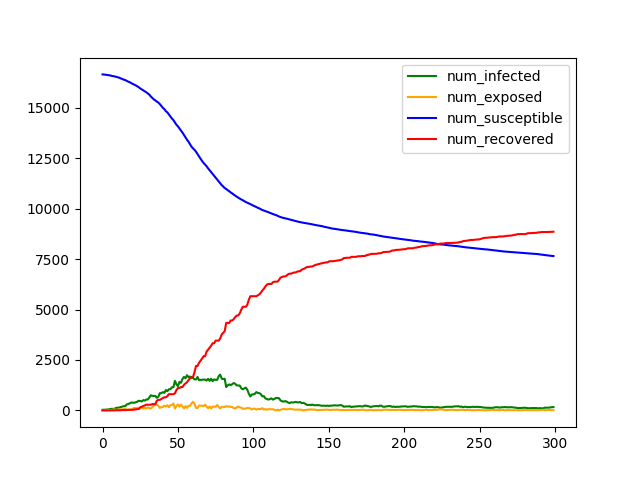
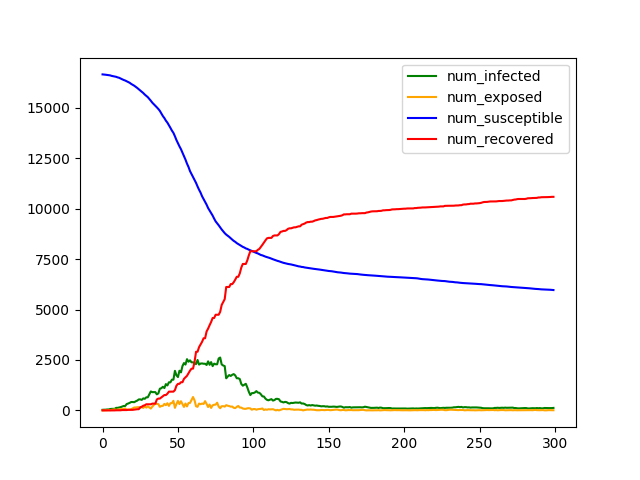
update with inter-group interaction matrix

diff --git a/simopt/models/covid_shane.py b/simopt/models/covid_shane.py
@@ -55,8 +55,7 @@ class COVID(Model):
             "inter_rate": {
                 "description": "Interaction rates between two groups per day",
                 "datatype": tuple,
-                #"default": (17.58, 17.58, 13.57)
-                "default": (10.58, 5, 2, 4, 10.58, 3, 1, 2, 10.57)
+                "default": (17.58, 17.58, 13.57)
             },
             "group_size": {
                 "description": "Size of each group.",
@@ -201,12 +200,7 @@ class COVID(Model):
         binom_test_rng = rng_list[5]
 
         # Calculate the transmission rate
-        #t_rate = np.array(self.factors["inter_rate"]) * self.factors["p_trans"]
-        # reshape the transmission rate
-        inter_rate= np.reshape(np.array(self.factors["inter_rate"]), (self.factors["num_groups"], self.factors["num_groups"]))
-        t_rate = inter_rate * self.factors["p_trans"]
-        t_rate = np.sum(t_rate, axis = 1)
-
+        t_rate = np.array(self.factors["inter_rate"]) * self.factors["p_trans"]
         # Initialize states, each row is one day, each column is one group
         susceptible = np.zeros((self.factors["n"], self.factors["num_groups"]))
         # quarantine = np.zeros((self.factors["n"], self.factors["num_groups"]))
@@ -246,8 +240,8 @@ class COVID(Model):
                 recovered[day, :] += recovered[day- 1, :]
         
             # generate number of new exposed from the transmission matrix and update exposed and susceptible
-            new_exp = np.multiply(np.multiply(t_rate, (infectious[day, :] + symptomatic[day, :] + asymptomatic[day, :])),(susceptible[day, :]/(susceptible[day, :] + exposed[day, :] + infectious[day, :] + symptomatic[day, :] + asymptomatic[day, :] + recovered[day, :])))
-            num_exp = [poisson_numexp_rng.poissonvariate(new_exp[i]) for i in range(self.factors["num_groups"])]
+            num_exp = np.multiply(np.multiply(t_rate, (infectious[day, :] + symptomatic[day, :] + asymptomatic[day, :])),(susceptible[day, :]/(susceptible[day, :] + exposed[day, :] + infectious[day, :] + symptomatic[day, :] + asymptomatic[day, :] + recovered[day, :])))
+            num_exp = [poisson_numexp_rng.poissonvariate(num_exp[i]) for i in range(self.factors["num_groups"])]
 
             exposed[day, :] = np.add(exposed[day, :], num_exp)
             susceptible[day, :] = np.subtract(susceptible[day, :], num_exp)
@@ -267,7 +261,7 @@ class COVID(Model):
                     new_tested_out_free_exp = []
                     # generate test_out by binomial distribution on free_exp
                     for g in range(self.factors["num_groups"]):
-                        new_tested_out_free_exp.append(binom_test_rng.binomialvariate(int(free_exp[g]), self.factors["freq"][g]*(1-self.factors["false_neg"])))
+                        new_tested_out_free_exp.append(binom_test_rng.binomialvariate(int(free_exp[g]), self.factors["freq"][g]))
                     # update isolation_exp by new tested_out_free_exp
                     isolation_exp[day + exp_day, :] += np.array(new_tested_out_free_exp)
                     exposed[day + exp_day, :] -= np.array(new_tested_out_free_exp)
@@ -293,7 +287,7 @@ class COVID(Model):
                     new_tested_out_free_inf = []
                     # generate test_out by binomial distribution on free_inf
                     for g in range(self.factors["num_groups"]):
-                        new_tested_out_free_inf.append(binom_test_rng.binomialvariate(int(free_inf[g]), self.factors["freq"][g]*(1-self.factors["false_neg"])))
+                        new_tested_out_free_inf.append(binom_test_rng.binomialvariate(int(free_inf[g]), self.factors["freq"][g]))
                     # update isolation_inf, infectious, free_inf by new tested_out_free_inf
                     isolation_inf[day + inf_day + exp_days, :] += np.array(new_tested_out_free_inf)
                     infectious[day + inf_day + exp_days, :] -= np.array(new_tested_out_free_inf)
@@ -327,8 +321,8 @@ class COVID(Model):
                     new_tested_out_free_asymp= []
                     # generate test_out by binomial distribution on free_symp_asymp
                     for g in range(self.factors["num_groups"]):
-                        new_tested_out_free_symp.append(binom_test_rng.binomialvariate(int(free_symp[g]), self.factors["freq"][g]*(1-self.factors["false_neg"])))
-                        new_tested_out_free_asymp.append(binom_test_rng.binomialvariate(int(free_asymp[g]), self.factors["freq"][g]*(1-self.factors["false_neg"])))
+                        new_tested_out_free_symp.append(binom_test_rng.binomialvariate(int(free_symp[g]), self.factors["freq"][g]))
+                        new_tested_out_free_asymp.append(binom_test_rng.binomialvariate(int(free_asymp[g]), self.factors["freq"][g]))
                     # update isolation_symp_asymp by new_tested_out_free_symp_asymp
                     isolation_symp_asymp[day + symp_asymp_day + inf_days + exp_days, :] += (np.array(new_tested_out_free_symp) + np.array(new_tested_out_free_asymp))
                     symptomatic[day + symp_asymp_day + inf_days + exp_days, :] -= np.array(new_tested_out_free_symp)
@@ -367,7 +361,7 @@ class COVID(Model):
             num_infected[day] = np.sum(infectious[day, :] + symptomatic[day, :]+ asymptomatic[day, :] + isolation_inf[day, :] + isolation_symp_asymp[day, :])
 
         # Compose responses and gradients.
-        responses = {"num_infected": num_infected, "num_exposed": num_exposed, "num_susceptible": num_susceptible, "num_recovered": num_recovered, "new_infectious": new_infectious}
+        responses = {"num_infected": num_infected, "num_exposed": num_exposed, "num_susceptible": num_susceptible, "num_recovered": num_recovered}
         gradients = {response_key:
                      {factor_key: np.nan for factor_key in self.specifications}
                      for response_key in responses
@@ -451,7 +445,7 @@ class CovidMinInfect(Problem):
         self.name = name
         self.n_objectives = 1
         self.n_stochastic_constraints = 0
-        self.minmax = (-1,)
+        self.minmax = (1,)
         self.constraint_type = "box"
         self.variable_type = "continuous"
         self.gradient_available = True
@@ -459,13 +453,13 @@ class CovidMinInfect(Problem):
         self.optimal_solution = None
         self.model_default_factors = {}
         self.model_fixed_factors = {}
-        self.model_decision_factors = {"freq"}
+        self.model_decision_factors = {"init_level"}
         self.factors = fixed_factors
         self.specifications = {
             "initial_solution": {
                 "description": "Initial solution from which solvers start.",
                 "datatype": tuple,
-                "default": (1/7, 1/7, 1/7)
+                "default": (3/7, 1/7, 1/7)
             },
             "budget": {
                 "description": "Max # of replications for a solver to take.",
@@ -479,10 +473,10 @@ class CovidMinInfect(Problem):
         }
         super().__init__(fixed_factors, model_fixed_factors)
         # Instantiate model with fixed factors and overwritten defaults.
-        self.model = COVID(self.model_fixed_factors)
-        self.dim = self.model.factors["group_size"]
+        self.model = DynamNews(self.model_fixed_factors)
+        self.dim = self.model.factors["num_prod"]
         self.lower_bounds = (0,) * self.dim
-        self.upper_bounds = (1,) * self.dim
+        self.upper_bounds = (np.inf,) * self.dim
 
     def vector_to_factor_dict(self, vector):
         """
@@ -499,7 +493,7 @@ class CovidMinInfect(Problem):
             dictionary with factor keys and associated values
         """
         factor_dict = {
-            "freq": vector[:]
+            "init_level": vector[:]
         }
         return factor_dict
 
@@ -518,7 +512,7 @@ class CovidMinInfect(Problem):
         vector : tuple
             vector of values associated with decision variables
         """
-        vector = tuple(factor_dict["freq"])
+        vector = tuple(factor_dict["init_level"])
         return vector
 
     def response_dict_to_objectives(self, response_dict):
@@ -536,7 +530,7 @@ class CovidMinInfect(Problem):
         objectives : tuple
             vector of objectives
         """
-        objectives = (response_dict["new_infectious"],)
+        objectives = (response_dict["profit"],)
         return objectives
 
     def response_dict_to_stoch_constraints(self, response_dict):
@@ -630,5 +624,5 @@ class CovidMinInfect(Problem):
         x : tuple
             vector of decision variables
         """
-        x = tuple([rand_sol_rng.uniform(0, 1) for _ in range(self.dim)])
+        x = tuple([rand_sol_rng.uniform(0, 10) for _ in range(self.dim)])
         return x

diff --git a/simopt/demo/demo_problem.py b/simopt/demo/demo_problem.py
@@ -20,9 +20,8 @@ from base import Solution
 # # Replace <filename> with name of .py file containing problem class.
 # # Replace <problem_class_name> with name of problem class.
 # # Ex: from models.cntnv import CntNVMaxProfit
-from models.ironore import IronOreMaxRev
-from models.dynamnews import DynamNewsMaxProfit
-from models.vehicleroute import VehicleRouteMinDist
+from models.covid import CovidMinInfect
+
 
 # Fix factors of problem. Specify a dictionary of factors.
 # Look at Problem class definition to get names of factors.
@@ -43,7 +42,7 @@ fixed_factors = {}  # Resort to all default values.
 # Initialize an instance of the specified problem class.
 # Replace <problem_class_name> with name of problem class.
 # Ex: myproblem = CntNVMaxProfit(fixed_factors=fixed_factors)
-myproblem = VehicleRouteMinDist(fixed_factors= fixed_factors)
+myproblem = CovidMinInfect(fixed_factors= fixed_factors)
 
 # Initialize a solution x corresponding to the problem.
 # Look at the Problem class definition to identify the decision variables.
